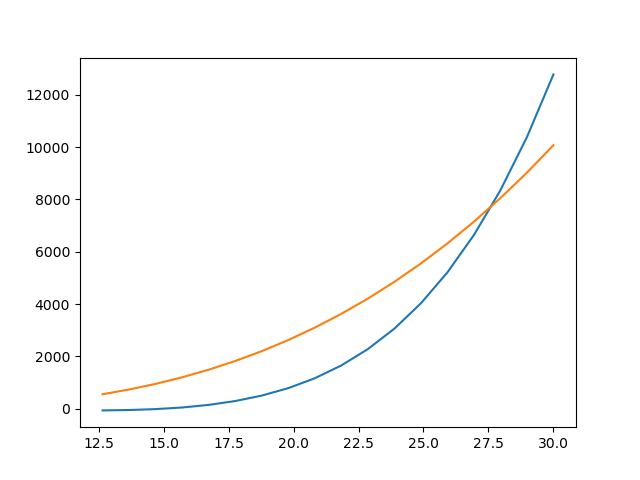
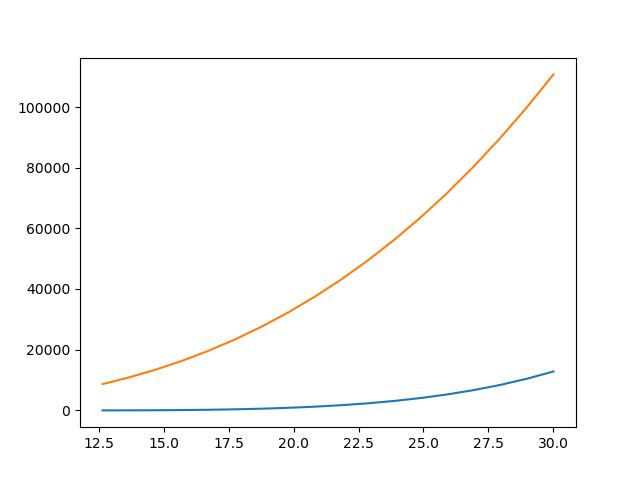
Some upgrades

diff --git a/Extrapolation/Extrapolation/Extrapolation.cpp b/Extrapolation/Extrapolation/Extrapolation.cpp
@@ -5,6 +5,7 @@
 #include <chrono>
 #include "math.h"
 #include "mnk_reg.h"
+#include "mnk_gradient.h"
 
 
 
@@ -137,13 +138,7 @@ int main()
     for (std::string& name : file_names) {
         auto x_y = read_file("data/" + name);
 
-<<<<<<< Updated upstream
-        mnk_reg LSE(5, 0.7);
 
-=======
-        
-        // data
->>>>>>> Stashed changes
         x = x_y.first;
         y = x_y.second;
         auto x_train_test = split_vector(x);
@@ -153,16 +148,34 @@ int main()
         y_train = y_train_test.first;
         y_test = y_train_test.second;
 
+
         // LSE with regularisation
-        mnk_reg LSE(-1, 0);  // 3 100
+        mnk_reg LSE_REG(3, 100);  // 3 100
 
-        auto start = std::chrono::high_resolution_clock::now();
-        prediction = LSE.fit_predict(x_train, y_train, x_test);
-        auto stop = std::chrono::high_resolution_clock::now();
+        auto start1 = std::chrono::high_resolution_clock::now();
+        prediction = LSE_REG.fit_predict(x_train, y_train, x_test);
+        auto stop1 = std::chrono::high_resolution_clock::now();
 
-        auto duration = std::chrono::duration_cast<std::chrono::microseconds>(stop - start);
+        auto duration1 = std::chrono::duration_cast<std::chrono::microseconds>(stop1 - start1);
 
-        std::cout << "LSE working: " << duration.count() << " microseconds" << std::endl;
+        std::cout << "LSE_REG working: " << duration1.count() << " microseconds" << std::endl;
+        std::cout << "mean absolute error in file " << name << ": " << mae(y_test, prediction) << std::endl;
+        std::cout << "r2 score in file " << name << ": " << r2_score(y_test, prediction) << std::endl;
+        std::cout << "SMAPE in file " << name << ": " << SMAPE(y_test, prediction) << "%" << std::endl << std::endl;
+
+        write_file("data/" + name + "_test", x_test, y_test, prediction);
+
+
+        // LSE with GD
+        mnk_gradient LSE;
+
+        auto start2 = std::chrono::high_resolution_clock::now();
+        prediction = LSE.PredictValues(x_train, y_train, x_test);
+        auto stop2 = std::chrono::high_resolution_clock::now();
+
+        auto duration2 = std::chrono::duration_cast<std::chrono::microseconds>(stop2 - start2);
+
+        std::cout << "LSE_GRAD working: " << duration2.count() << " microseconds" << std::endl;
         std::cout << "mean absolute error in file " << name << ": " << mae(y_test, prediction) << std::endl;
         std::cout << "r2 score in file " << name << ": " << r2_score(y_test, prediction) << std::endl;
         std::cout << "SMAPE in file " << name << ": " << SMAPE(y_test, prediction) << "%" << std::endl << std::endl;

diff --git a/Extrapolation/Extrapolation/mnk_gradient.h b/Extrapolation/Extrapolation/mnk_gradient.h
@@ -4,9 +4,9 @@
 class mnk_gradient
 {
 private:
-	int power=1;
-	int niter=100;
-	double lmd=0.01;
+	int power=3;
+	int niter=10000;
+	double lmd=0.0000000000001;
 	std::vector<double> params;
 public:
 
